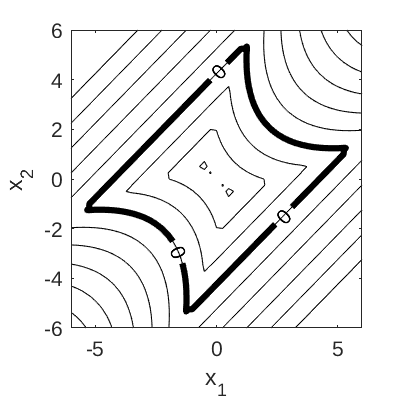
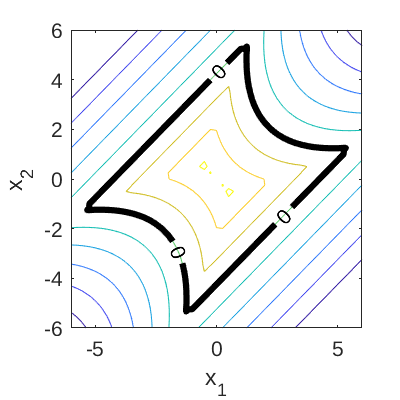
Show color in contour plot of four-branch function

diff --git a/test-functions/fourBranch/fourBranchPlot.m b/test-functions/fourBranch/fourBranchPlot.m
@@ -41,7 +41,7 @@ width = 256;
 height = 256;
 set(gcf,'position',[x0, y0, width, height])
 
-contour(X, Y, newZ, -5:3, 'Color', 'k')
+contour(X, Y, newZ, -5:3)
 hold on
 contour(X, Y, newZ, [0,0], 'Color', 'k', 'LineWidth', 3, 'ShowText', 'on')
 hold off
